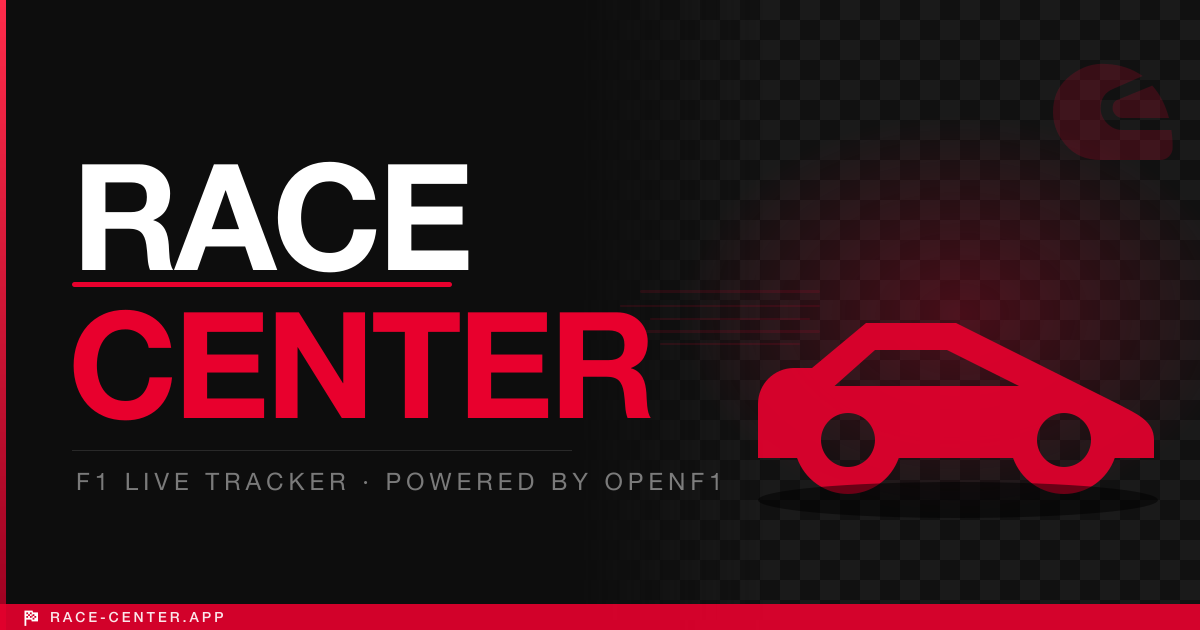
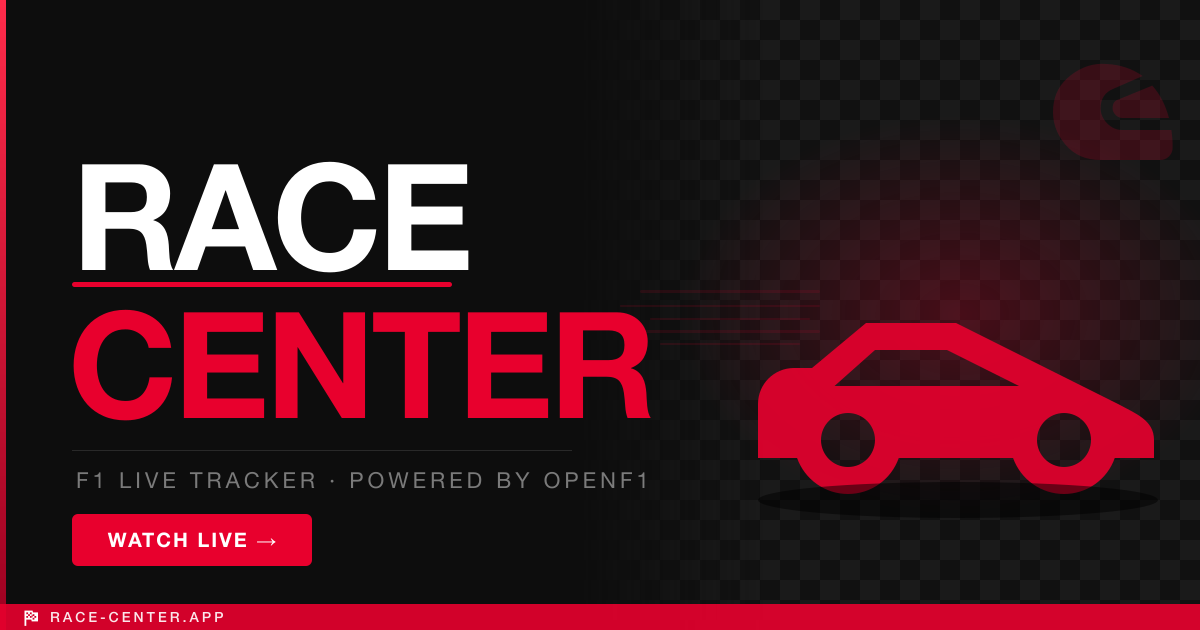
fix og:image title length and add CTA button to og-image
Title extended from 29 to 55 chars (optimal 50-60).
Added "WATCH LIVE →" CTA button to og-image per opengraph.xyz recommendation.

Changed region(s): [[0.0617, 0.8143, 0.2775, 0.9048], [0.0617, 0.754, 0.5858, 0.7841]]

diff --git a/index.html b/index.html
@@ -5,7 +5,7 @@
     <meta name="viewport" content="width=device-width, initial-scale=1.0" />
 
     <!-- Primary SEO -->
-    <title>Race Center — F1 Live Tracker</title>
+    <title>Race Center — Live F1 Standings, Telemetry &amp; Replay</title>
     <meta
       name="description"
       content="Real-time Formula 1 race viewer. Live standings, driver telemetry, track map, team radio, and full replay — powered by the OpenF1 public API."
@@ -21,7 +21,7 @@
     <!-- Open Graph (social sharing) -->
     <meta property="og:type" content="website" />
     <meta property="og:site_name" content="Race Center" />
-    <meta property="og:title" content="Race Center — F1 Live Tracker" />
+    <meta property="og:title" content="Race Center — Live F1 Standings, Telemetry &amp; Replay" />
     <meta
       property="og:description"
       content="Real-time Formula 1 race viewer. Live standings, driver telemetry, track map, team radio, and full replay — powered by the OpenF1 public API."
@@ -37,7 +37,7 @@
 
     <!-- Twitter / X Card -->
     <meta name="twitter:card" content="summary_large_image" />
-    <meta name="twitter:title" content="Race Center — F1 Live Tracker" />
+    <meta name="twitter:title" content="Race Center — Live F1 Standings, Telemetry &amp; Replay" />
     <meta
       name="twitter:description"
       content="Real-time Formula 1 race viewer. Live standings, driver telemetry, track map, team radio, and full replay — powered by the OpenF1 public API."
